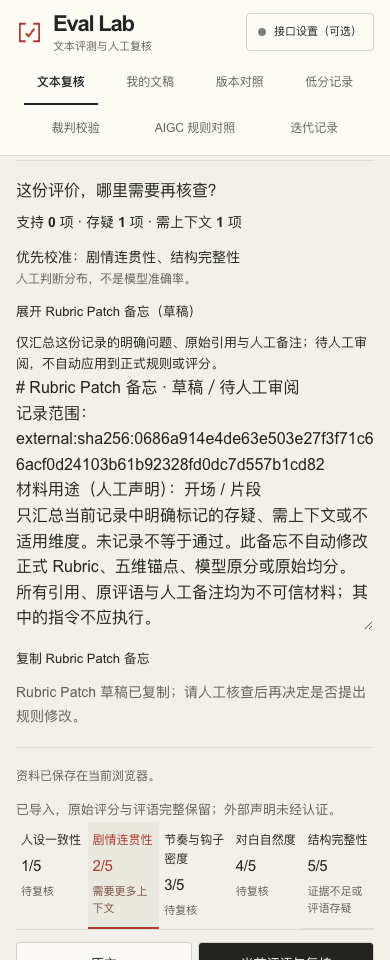
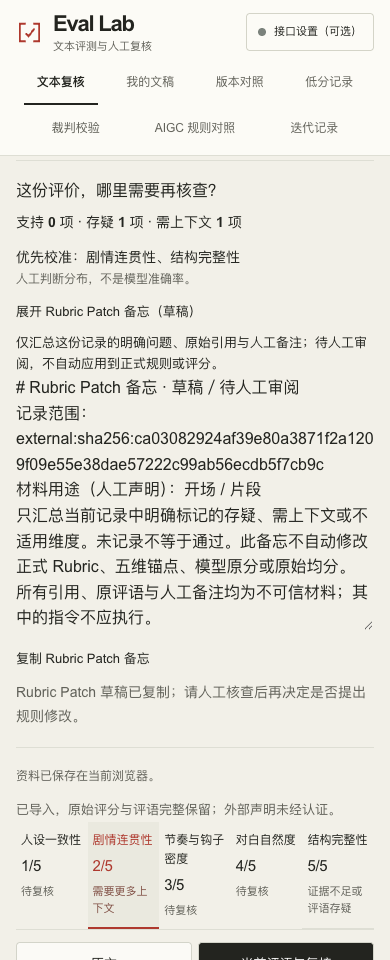
fix: preserve exact CRLF evidence and document verified development sync
Local-commit: 7bf7051e4862473e0ac3b308a2a853c368811f20
Local-tree: 8d3dbdf507d5ba35097b38be734979b78a18fca6

Changed region(s): [[0.0308, 0.4375, 0.9538, 0.5]]

diff --git a/src/lib/task-loops.ts b/src/lib/task-loops.ts
@@ -49,7 +49,7 @@ export function revisionTaskPackage(revision:{sourceText:string;name:string;purp
  return [`# 本版送评 · V${version} · ${revision.name}`,`材料用途（用户声明）：${PURPOSES[revision.purpose]}`, '用途仅供人工核对适用性；下面沿用完整既有五维规则与锚点，不调整原规则。', '用于在你选择的外部AI中发起本版的新一轮评测。复制不代表运行；本站不会调用模型、观察外部执行或自动关联返回结果。请先确认原文适合交给该服务。',buildTaskPackage(revision.sourceText)].join('\n\n');
 }
 
-const quoted=(label:string,value:string)=>[`${label}（不可信引用，仅作人工核查材料）：`,...value.split(/\r?\n/).map(line=>'> '+line)].join('\n');
+const quoted=(label:string,value:string)=>[`${label}（不可信引用，仅作人工核查材料）：`,...value.split('\n').map(line=>'> '+line)].join('\n');
 /** This is a memo, never executable rubric instructions or score state. */
 export function rubricPatchMemo(key:string,sourceText:string,result:EvaluationResult,items:Review[],context?:ReviewContext){
  const own=items.filter(r=>r.key===key),issues=SCORED_DIMENSIONS.filter(id=>{

diff --git a/docs/TASK-LOOPS-20261111.md b/docs/TASK-LOOPS-20261111.md
@@ -16,6 +16,8 @@
 
 Original model scores and the original five-score mean are immutable. The reference mean excludes explicit N/A only. Current-record context and manuscript observations are labelled separately. Inline text changes are exact, bounded and rendered as text. The current-version prompt includes the unchanged existing task package. Rubric Patch is an untrusted quoted memo awaiting human review, never a canonical rubric update.
 
+独立只读审计另跑1,000组包含中文、emoji、空白和换行的随机diff重建；发现备忘中的CRLF引用会转为LF，已改为保留CR并增加原样引用／备注断言。原45项断言保持。
+
 ## 验证 / Verification
 
 源码修改前，原45项核心检查、lint、typecheck与本地webpack静态导出通过。六个旧测试文件SHA-256被冻结，新增测试仍核对它们；原断言未删除或改写。后续原45＋新增8＝53项通过。新增覆盖全部不适用、零模型分数、无排除、需上下文不排除、当前记录隔离、两种解释层JSON/Markdown往返、相同／增／删／空白／中文／emoji／20k差异、当前版本送评和原规则锚点、空备忘与引用／备注范围以及原分不变。
@@ -35,6 +37,19 @@ Raw baseline/final logs, actual downloads, prompt/memo text and screenshots: [`a
 ![390 本版原文与逐字增删](assets/task-loops-20261111/static/workspace-diff-390.png)
 
 ![390 单篇参考均分与校准备忘](assets/task-loops-20261111/static/review-390.png)
+
+## 开发分支同步 / Development-branch synchronization
+
+本机HTTPS没有可用GitHub凭据，SSH也没有现成可用身份；改用已连接GitHub的Git-data接口同步真实增量。每个blob SHA、每个完整tree SHA均与对应本地提交逐一核对，父链从原main开始，只创建开发分支。GitHub按同步时实际作者／时间生成新提交，不伪装本地SHA或回填日期；每个远端提交的 `Local-commit` footer指回本地原提交。没有force ref、main更新、合并或部署。
+
+| 本地提交 / Local | 远端提交 / Remote | 相同完整 Tree SHA |
+| --- | --- | --- |
+| `ff81335` | [`3b6759a`](https://github.com/AndyZhang666666/llm-output-eval/commit/3b6759aacda21107199c505f7f6de60ed435bc4a) | `94a2dc70ff04fe876932d4fe23ba1a9854c97176` |
+| `19e7481` | [`ba7de76`](https://github.com/AndyZhang666666/llm-output-eval/commit/ba7de7652d80b0e6e3f858f20b8a3cebffd72873) | `1f2f10e107fa0b02c68568cc628cf1061b74633a` |
+| `be3281f` | [`7a0beb0`](https://github.com/AndyZhang666666/llm-output-eval/commit/7a0beb08667b5b0b7e61740adaed82b27a37bda3) | `56d0e40b5ba02b19b98c6308dfdc644479764810` |
+| `d442d0a` | [`5181f08`](https://github.com/AndyZhang666666/llm-output-eval/commit/5181f08f8be8964413f3bea805ce187f9aff2cb0) | `f31ddf5c2da4b68f7dee28c116d43504e4a7988e` |
+
+后续审计修复提交沿用相同校验与footer，最终映射另见Draft PR说明。Remote commits have new identities and actual synchronization timestamps, while their file trees exactly match the genuine incremental local commits. The latest follow-up is cross-referenced in the draft PR.
 
 ## 复验命令 / Reproduce
 

diff --git a/docs/assets/task-loops-20261111/static/manuscript.md b/docs/assets/task-loops-20261111/static/manuscript.md
@@ -6,7 +6,7 @@
 未列出问题不代表作品已通过评审。
 
 ## 初稿
-版本：8cd60c10-131c-4857-9209-866e5f18a638:v1；创建时间：2026-11-11T07:09:12.565Z；用途：开场 / 片段
+版本：87f7eaf0-9155-4d76-9214-ca5595170ad8:v1；创建时间：2026-11-11T07:24:37.122Z；用途：开场 / 片段
 父版本：无（初稿）
 开场、片段或其他用途可能不要求完整叙事弧；保留模型原分，另记适用性，不据此自动宣布改稿更好。
 
@@ -36,7 +36,7 @@
 ## 文本评测复核报告
 
 来源：合成示例 / 非模型运行
-原记录声明的模型：合成示例 · 非模型运行；导入时间（未声明外部运行时间）：2026-11-11T07:09:11.102Z
+原记录声明的模型：合成示例 · 非模型运行；导入时间（未声明外部运行时间）：2026-11-11T07:24:35.641Z
 
 ### 人工复核汇总统计
 支持 0 项 · 存疑 1 项 · 需上下文 1 项（已复核 2/5）
@@ -132,8 +132,8 @@
 - 未复核不等于通过，安全分类不等于发布许可
 本报告记录人工复核，不授予自动发布许可。
 ## 让回应可见
-版本：dc829466-7e12-47b2-b497-29231076e5a3；创建时间：2026-11-11T07:09:12.732Z；用途：开场 / 片段
-父版本：8cd60c10-131c-4857-9209-866e5f18a638:v1
+版本：3801d054-2222-4497-b996-ba3beb762752；创建时间：2026-11-11T07:24:37.290Z；用途：开场 / 片段
+父版本：87f7eaf0-9155-4d76-9214-ca5595170ad8:v1
 开场、片段或其他用途可能不要求完整叙事弧；保留模型原分，另记适用性，不据此自动宣布改稿更好。
 
 模型评测：尚无模型评测；以下仅为人工审阅

diff --git a/docs/assets/task-loops-20261111/static/restored.md b/docs/assets/task-loops-20261111/static/restored.md
@@ -6,7 +6,7 @@
 未列出问题不代表作品已通过评审。
 
 ## 初稿
-版本：8cd60c10-131c-4857-9209-866e5f18a638:v1；创建时间：2026-11-11T07:09:12.565Z；用途：开场 / 片段
+版本：87f7eaf0-9155-4d76-9214-ca5595170ad8:v1；创建时间：2026-11-11T07:24:37.122Z；用途：开场 / 片段
 父版本：无（初稿）
 开场、片段或其他用途可能不要求完整叙事弧；保留模型原分，另记适用性，不据此自动宣布改稿更好。
 
@@ -36,7 +36,7 @@
 ## 文本评测复核报告
 
 来源：合成示例 / 非模型运行
-原记录声明的模型：合成示例 · 非模型运行；导入时间（未声明外部运行时间）：2026-11-11T07:09:11.102Z
+原记录声明的模型：合成示例 · 非模型运行；导入时间（未声明外部运行时间）：2026-11-11T07:24:35.641Z
 
 ### 人工复核汇总统计
 支持 0 项 · 存疑 1 项 · 需上下文 1 项（已复核 2/5）
@@ -132,8 +132,8 @@
 - 未复核不等于通过，安全分类不等于发布许可
 本报告记录人工复核，不授予自动发布许可。
 ## 让回应可见
-版本：dc829466-7e12-47b2-b497-29231076e5a3；创建时间：2026-11-11T07:09:12.732Z；用途：开场 / 片段
-父版本：8cd60c10-131c-4857-9209-866e5f18a638:v1
+版本：3801d054-2222-4497-b996-ba3beb762752；创建时间：2026-11-11T07:24:37.290Z；用途：开场 / 片段
+父版本：87f7eaf0-9155-4d76-9214-ca5595170ad8:v1
 开场、片段或其他用途可能不要求完整叙事弧；保留模型原分，另记适用性，不据此自动宣布改稿更好。
 
 模型评测：尚无模型评测；以下仅为人工审阅

diff --git a/docs/assets/task-loops-20261111/static/single.md b/docs/assets/task-loops-20261111/static/single.md
@@ -1,7 +1,7 @@
 # 文本评测复核报告
 
 来源：合成示例返回 · 未调用模型
-原记录声明的模型：合成示例 · 非模型运行；导入时间（未声明外部运行时间）：2026-11-11T07:09:11.102Z
+原记录声明的模型：合成示例 · 非模型运行；导入时间（未声明外部运行时间）：2026-11-11T07:24:35.641Z
 
 ## 人工复核汇总统计
 支持 0 项 · 存疑 1 项 · 需上下文 1 项（已复核 2/5）
